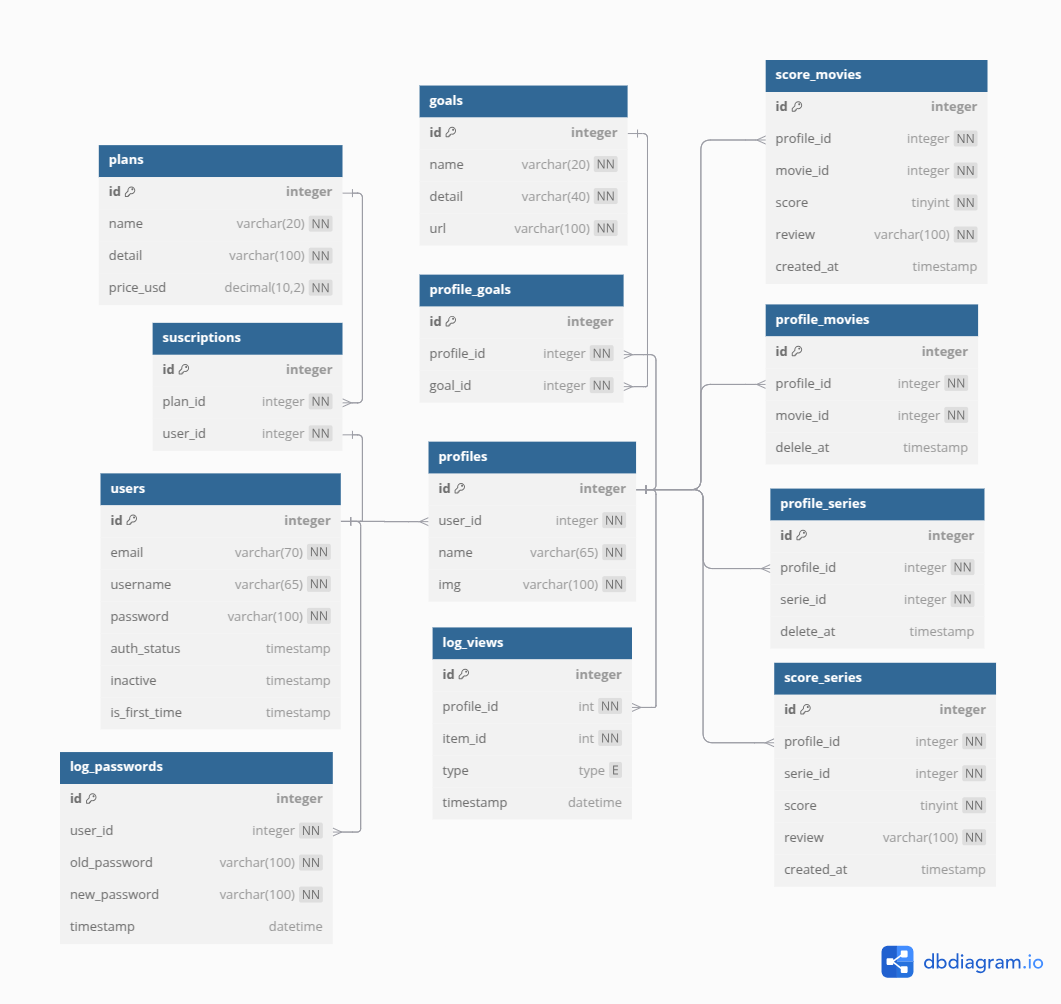
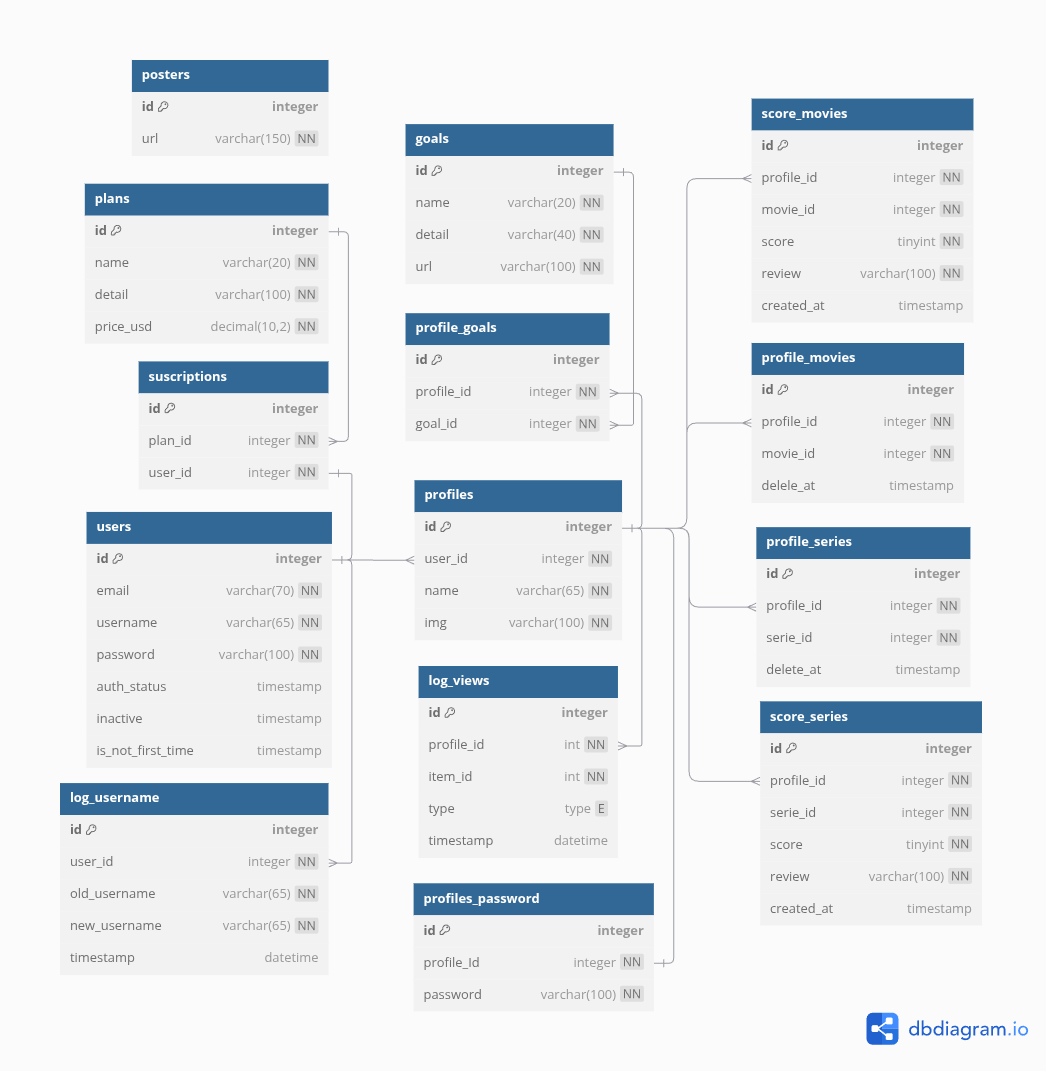
Fixed some sp and added sp to get more control about CRUD

Changed region(s): [[0.0612, 0.0309, 0.673, 0.9572], [0.7036, 0.0618, 0.9484, 0.8954], [0.826, 0.9263, 0.979, 0.988]]

diff --git a/README.md b/README.md
@@ -33,3 +33,4 @@ One each of those variables is essential to function correctly becase some scrip
 - DB_PASSWORD
 - DB_NAME
 - FILE_TO_APPLY_BACKUP
+- FILE_SQL_TO_APPLY
